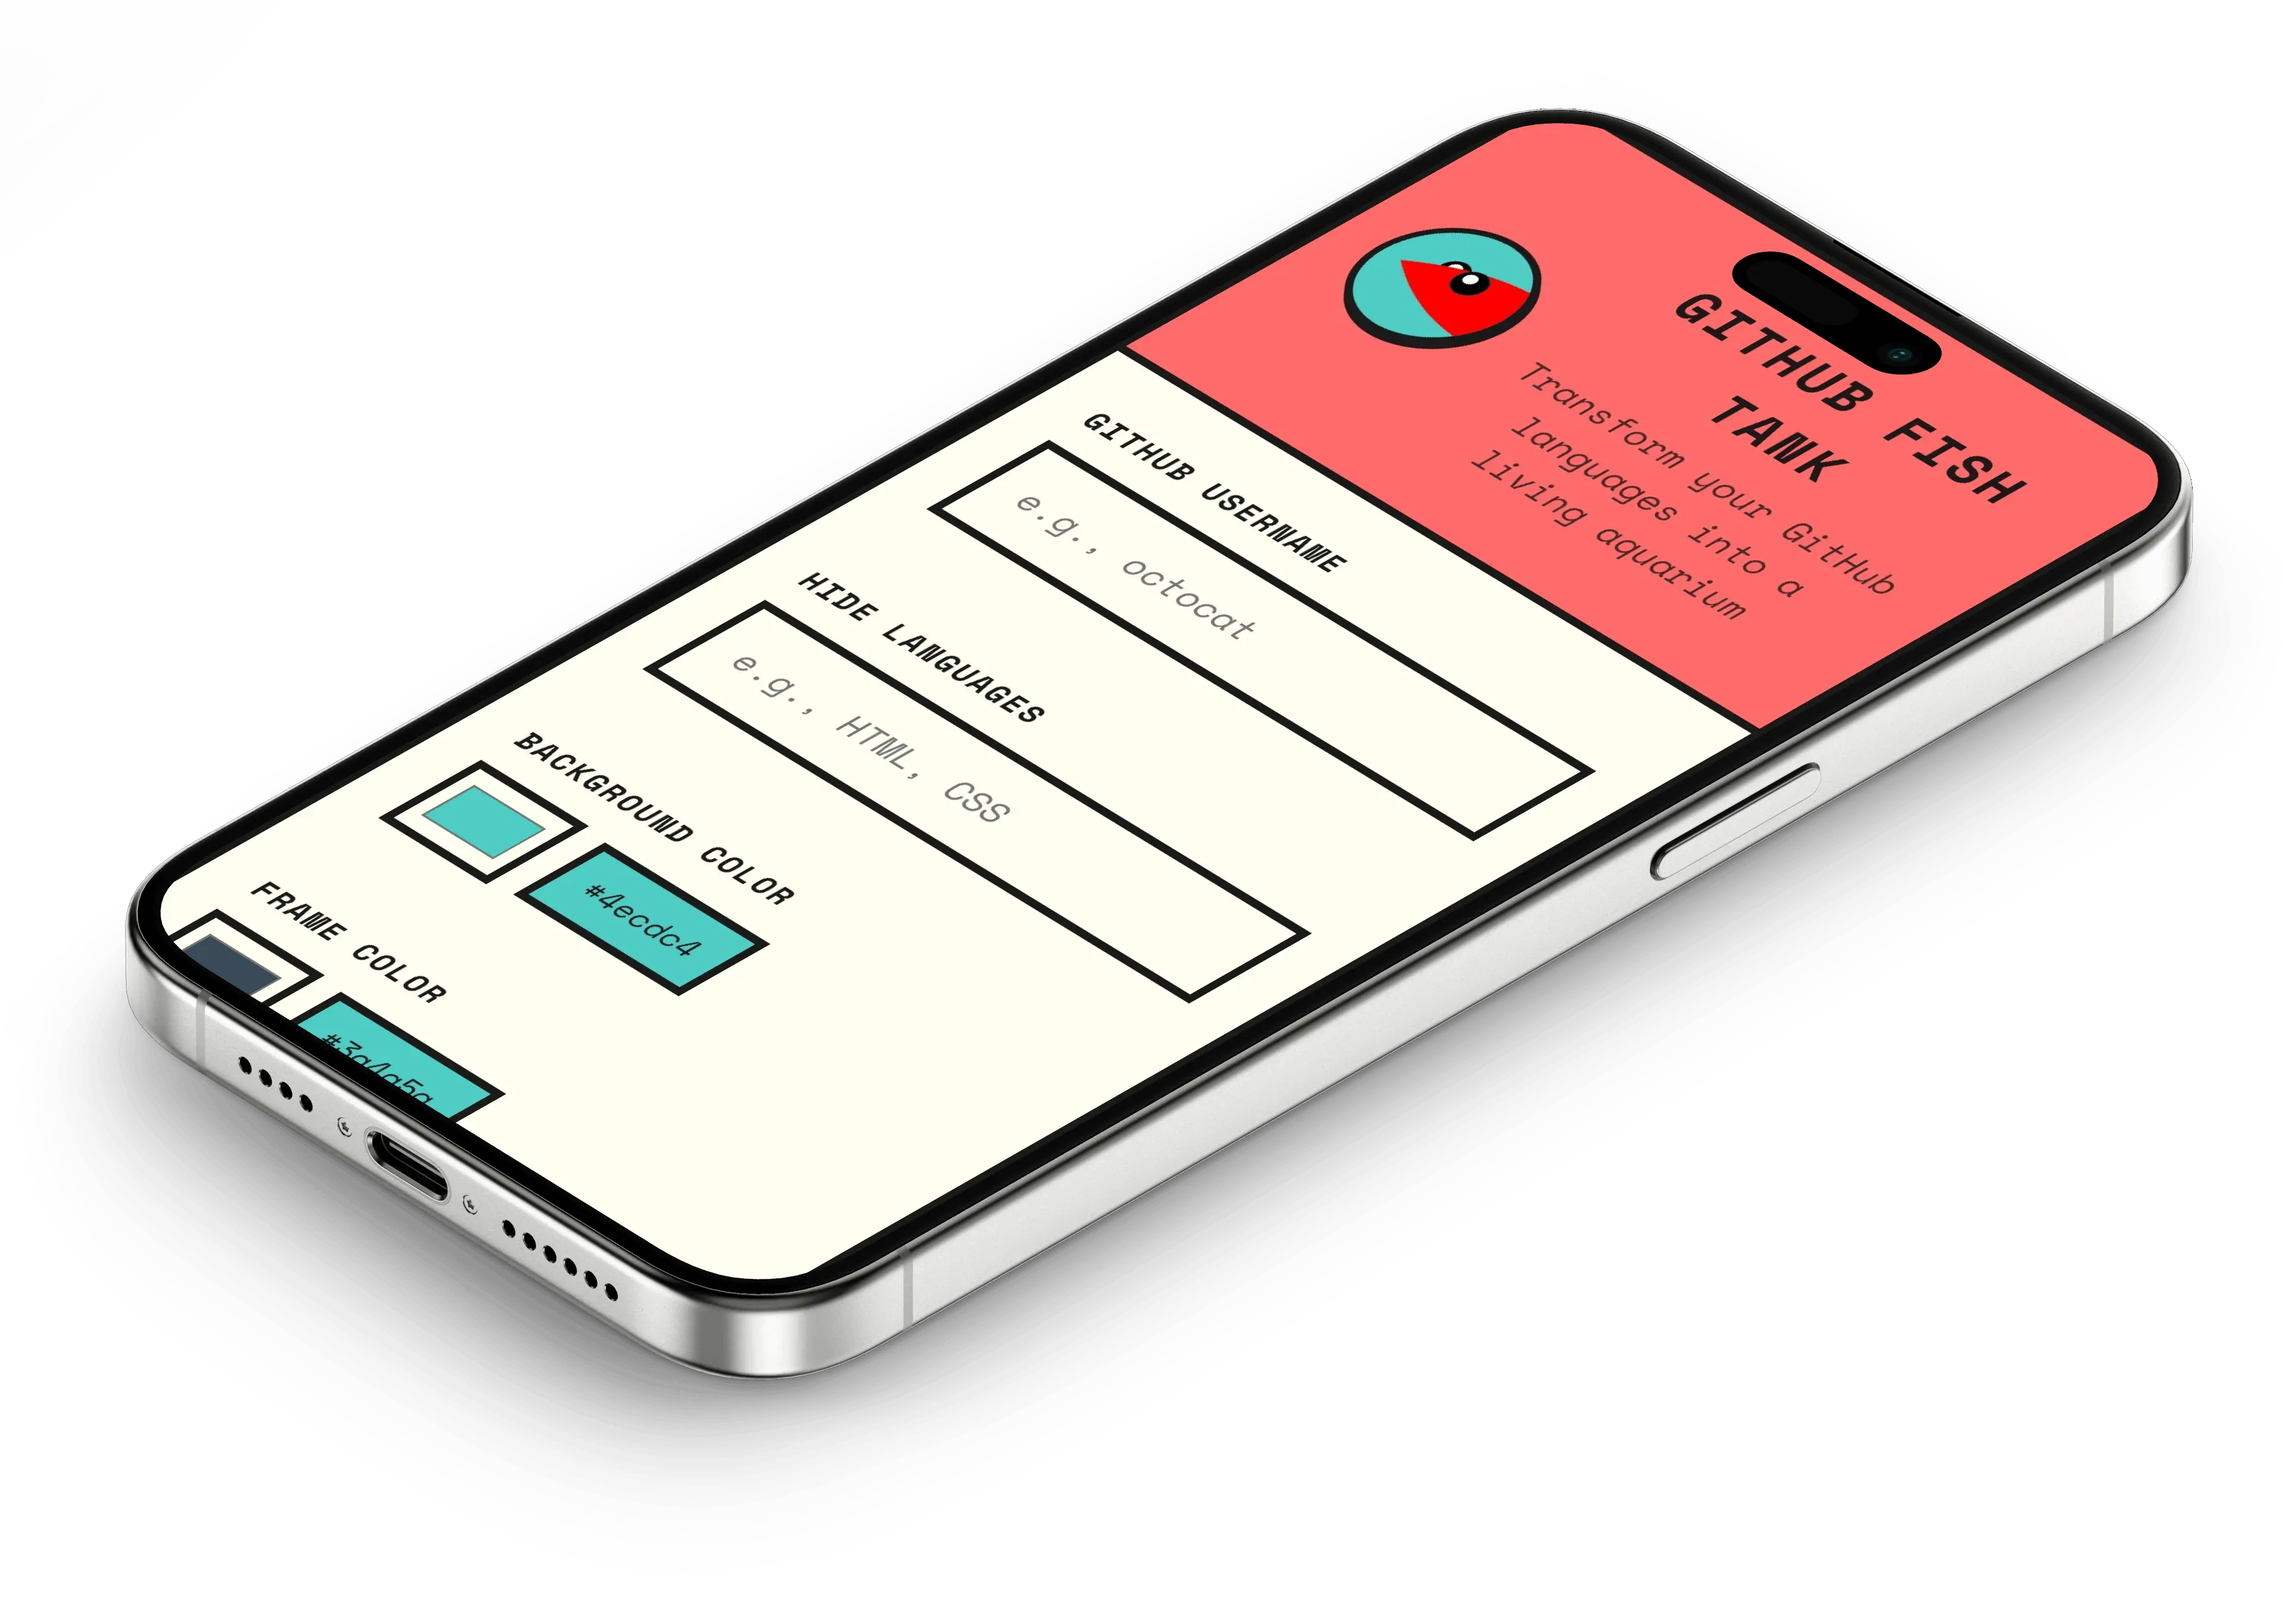
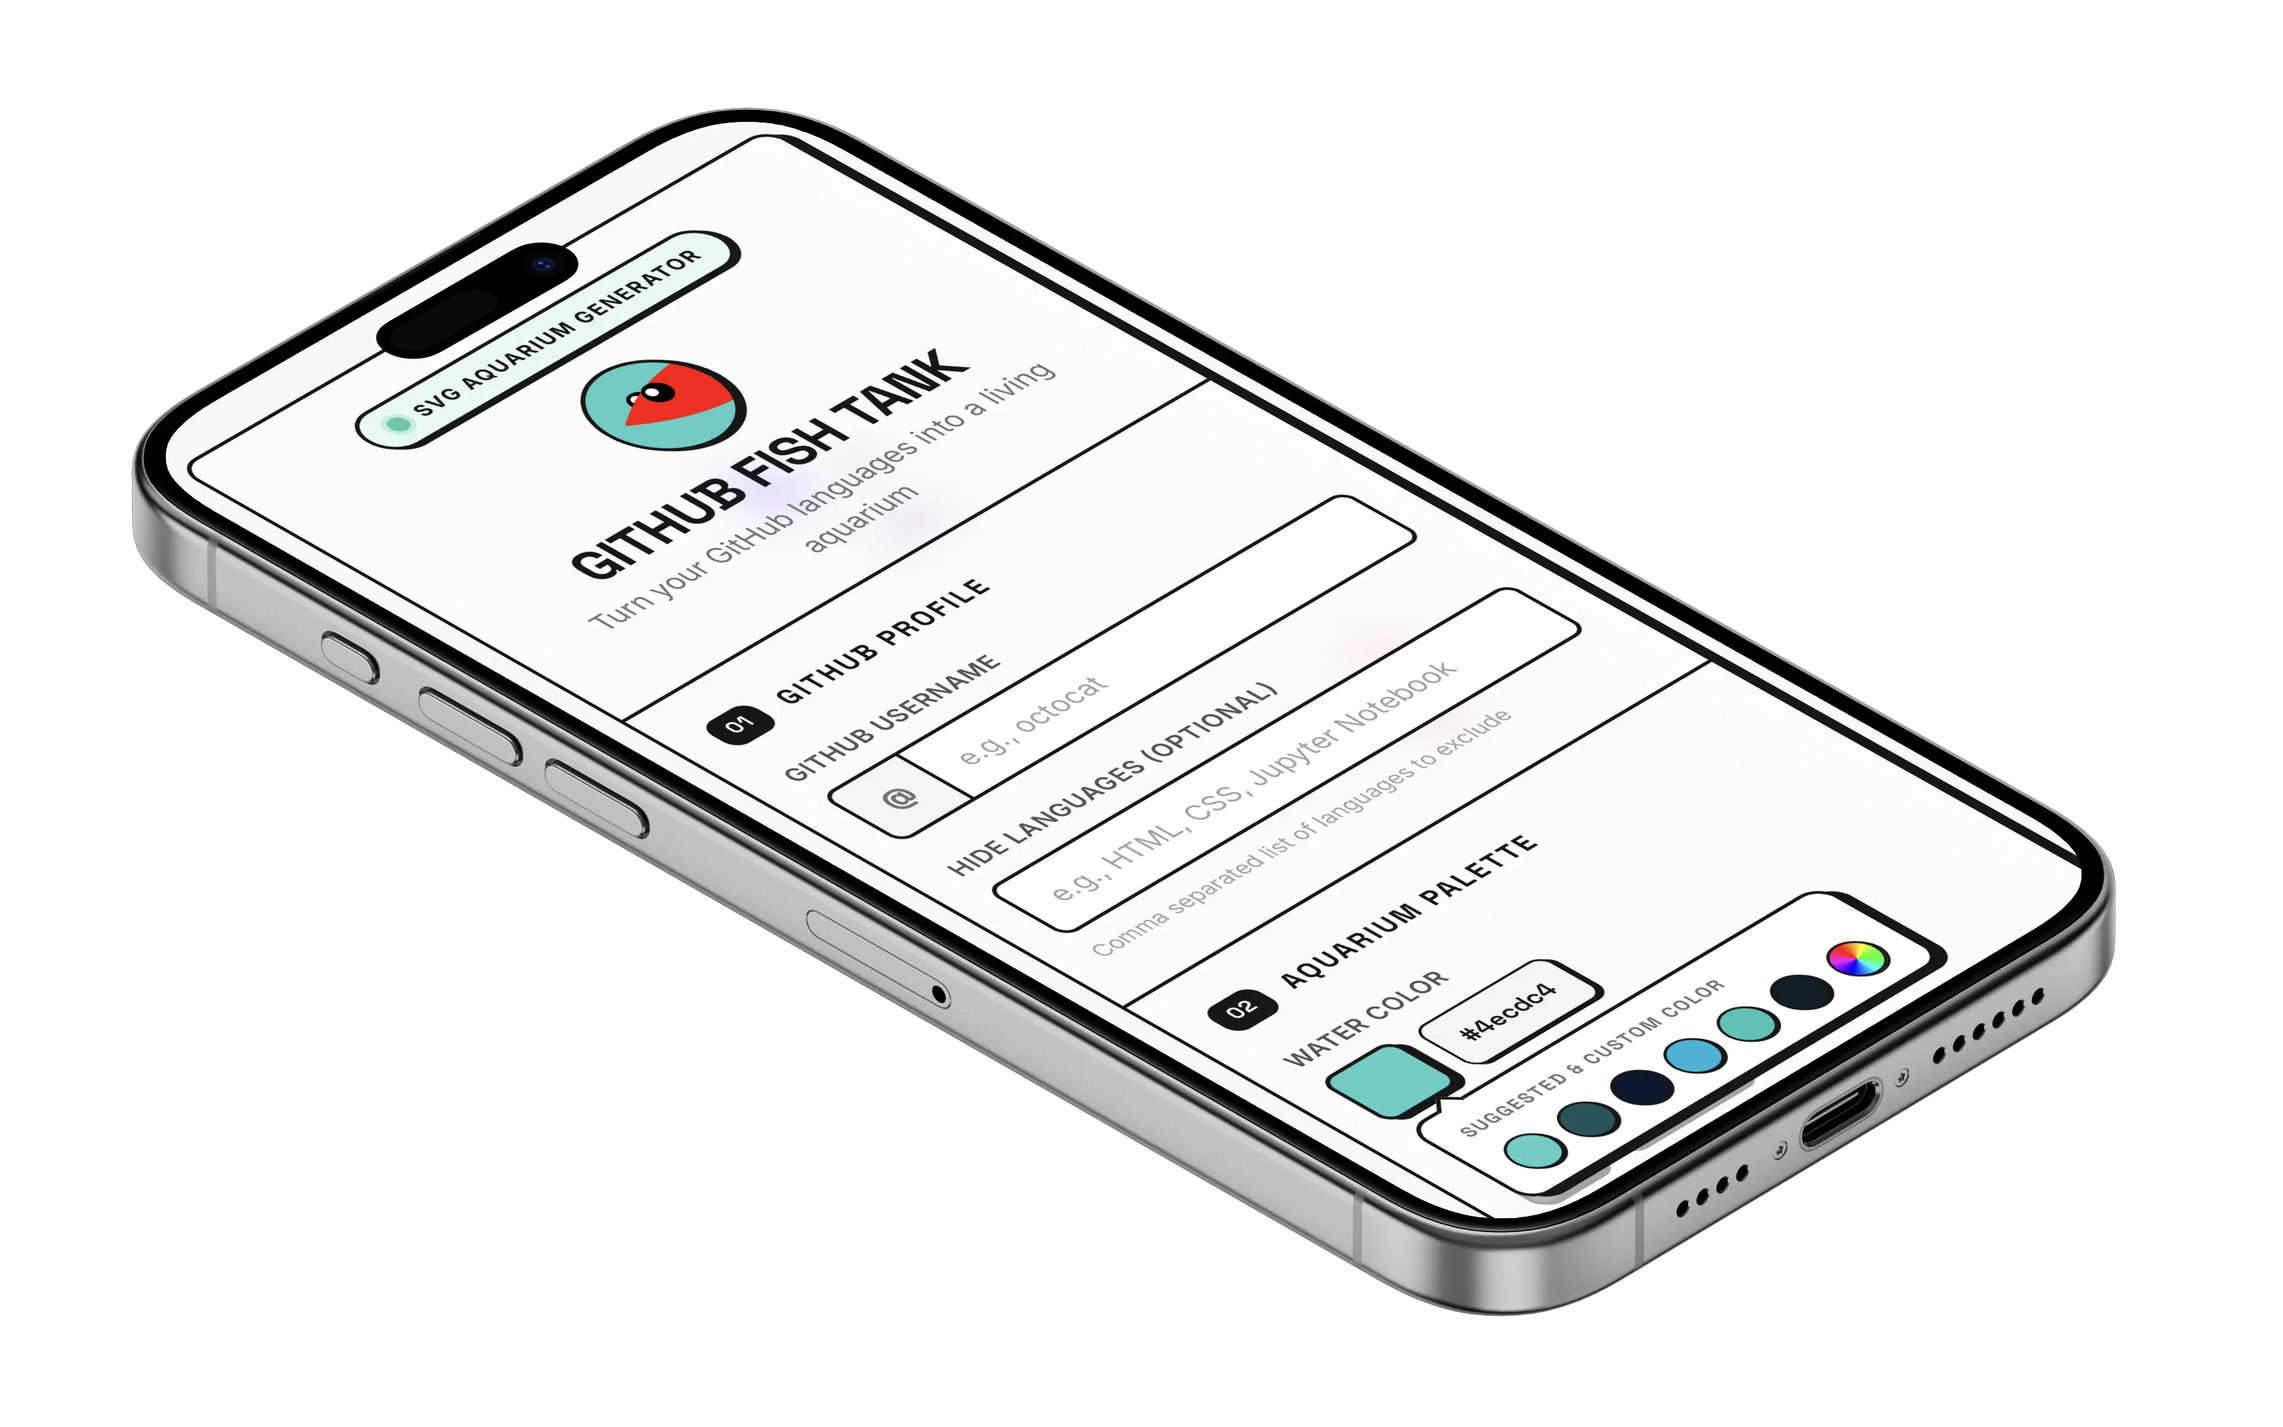
fix(projects): update links and preview screenshots
Fix the case-sensitive Fish Tank gallery image URLs, refresh its desktop and mobile preview images, and add the LitePay website link.

diff --git a/data/projects.ts b/data/projects.ts
@@ -36,8 +36,8 @@ export const getProjects = (language: 'pl' | 'en'): Project[] => [
     galleryImages: [
       "https://raw.githubusercontent.com/hadoyyo/GitHub-Fish-Tank/main/img/ss/ss1.png",
       "https://raw.githubusercontent.com/hadoyyo/GitHub-Fish-Tank/main/img/ss/ss2.png",
-      "https://raw.githubusercontent.com/hadoyyo/GitHub-Fish-Tank/main/img/ss/ss3.jpg",
-      "https://raw.githubusercontent.com/hadoyyo/GitHub-Fish-Tank/main/img/ss/ss4.jpg",
+      "https://raw.githubusercontent.com/hadoyyo/GitHub-Fish-Tank/main/img/ss/ss3.PNG",
+      "https://raw.githubusercontent.com/hadoyyo/GitHub-Fish-Tank/main/img/ss/ss4.PNG",
     ]
   },
   {
@@ -177,7 +177,7 @@ export const getProjects = (language: 'pl' | 'en'): Project[] => [
       technologies: ["JavaScript", "React", "Express.js", "Node.js", "MongoDB"],
       image: "/Portfolio/projects/litepay-ss.webp",
       logo: "/Portfolio/projects/litepay-logo.png",
-      websiteUrl: null,
+      websiteUrl: "https://litepay-one.vercel.app",
       githubUrl: "https://github.com/hadoyyo/LitePay-WebApp",
       galleryImages: [
         "https://raw.githubusercontent.com/hadoyyo/LitePay-WebApp/refs/heads/main/ss/ss1.png",
